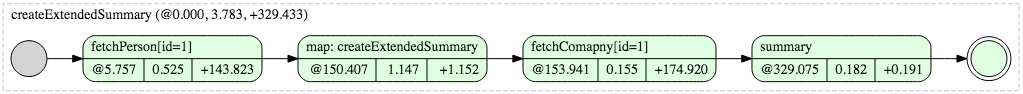
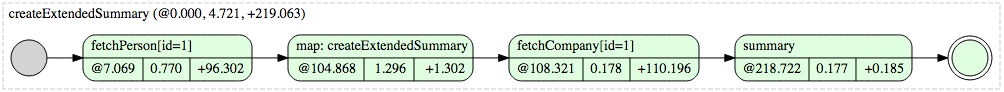
Fixed typo in example from parseq-batching.

diff --git a/contrib/parseq-examples/src/main/java/com/linkedin/parseq/example/domain/Examples.java b/contrib/parseq-examples/src/main/java/com/linkedin/parseq/example/domain/Examples.java
@@ -18,7 +18,7 @@ import com.linkedin.parseq.function.Tuple2;
 public class Examples extends AbstractDomainExample {
 
   public static void main(String[] args) throws Exception {
-    new Examples(true).runExample();
+    new Examples(false).runExample();
   }
 
   public Examples(boolean useBatching) {
@@ -101,7 +101,8 @@ public class Examples extends AbstractDomainExample {
 
   @Override
   protected void doRunExample(final Engine engine) throws Exception {
-    Task<?> task = Task.par(createExtendedSummary(1), createExtendedSummary(2));
+    Task<?> task = createExtendedSummary(1);
+//    Task<?> task = Task.par(createExtendedSummary(1), createExtendedSummary(2));
 
     engine.run(task);
 

diff --git a/contrib/parseq-examples/src/main/java/com/linkedin/parseq/example/domain/AbstractDomainExample.java b/contrib/parseq-examples/src/main/java/com/linkedin/parseq/example/domain/AbstractDomainExample.java
@@ -57,7 +57,7 @@ public abstract class AbstractDomainExample extends AbstractExample {
     if (companyService == null) {
       companyService = getService();
     }
-    return ExampleUtil.fetch("Comapny", companyService, id, DB.companyDB);
+    return ExampleUtil.fetch("Company", companyService, id, DB.companyDB);
   }
 
   public Task<Message> fetchMessage(int id) {
